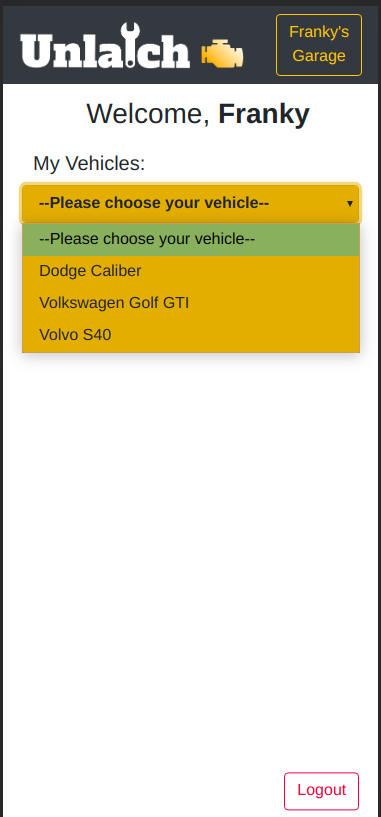
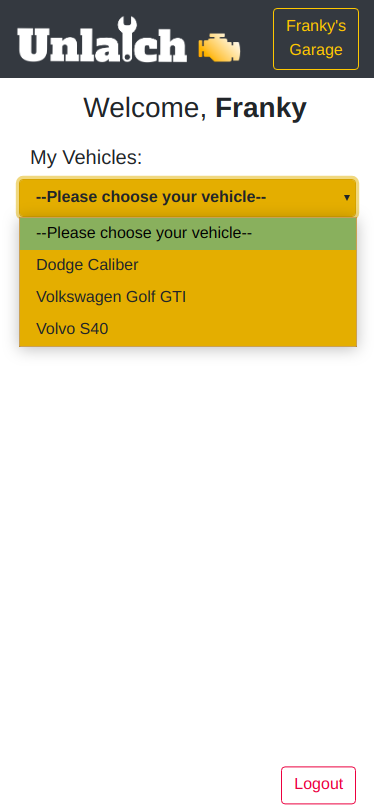
Fixed pictures to avoid black frame on the edges

Changed region(s): [[0.0, 0.0, 1.0, 1.0]]

diff --git a/README.md b/README.md
@@ -10,13 +10,13 @@ Unlatch that allows a user to keep track of the maintenance done to their vehicl
 
 ## Final Product
 
-!["Screenshot of Landing Page"]()
-!["Screenshot of Login Page"]()
-!["Screenshot of Garage Page"]()
-!["Screenshot of Selected Vehicle Page"]()
-!["Screenshot of Selected Project Page"]()
-!["Screenshot of Repair Logs Page"]()
-!["Screenshot of Add Repair Log Page"]()
+!["Screenshot of Landing Page"](https://raw.githubusercontent.com/Caronise/unlatch/master/frontend/docs/Landing.png)
+!["Screenshot of Login Page"](https://raw.githubusercontent.com/Caronise/unlatch/master/frontend/docs/Login.png)
+!["Screenshot of Garage Page"](https://raw.githubusercontent.com/Caronise/unlatch/master/frontend/docs/Garage.png)
+!["Screenshot of Selected Vehicle Page"](https://raw.githubusercontent.com/Caronise/unlatch/master/frontend/docs/SelectedVehicle.png)
+!["Screenshot of Selected Project Page"](https://raw.githubusercontent.com/Caronise/unlatch/master/frontend/docs/SelectedProject.png)
+!["Screenshot of Repair Logs Page"](https://raw.githubusercontent.com/Caronise/unlatch/master/frontend/docs/RepairLogs.png)
+!["Screenshot of Add Repair Log Page"](https://raw.githubusercontent.com/Caronise/unlatch/master/frontend/docs/AddRepairLog.png)
 
 
 ## Getting Started
